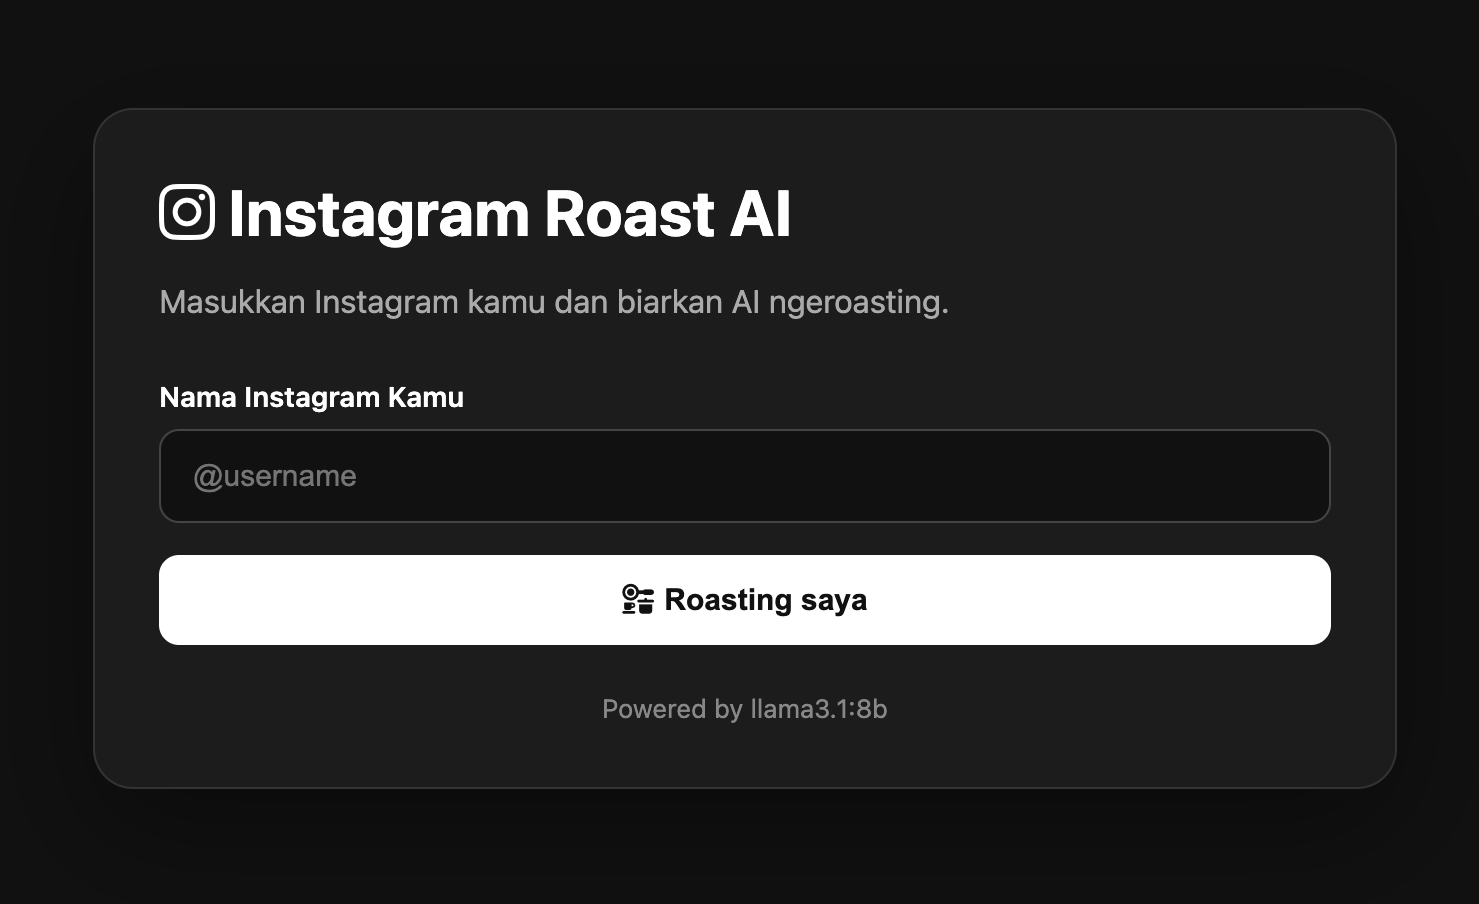
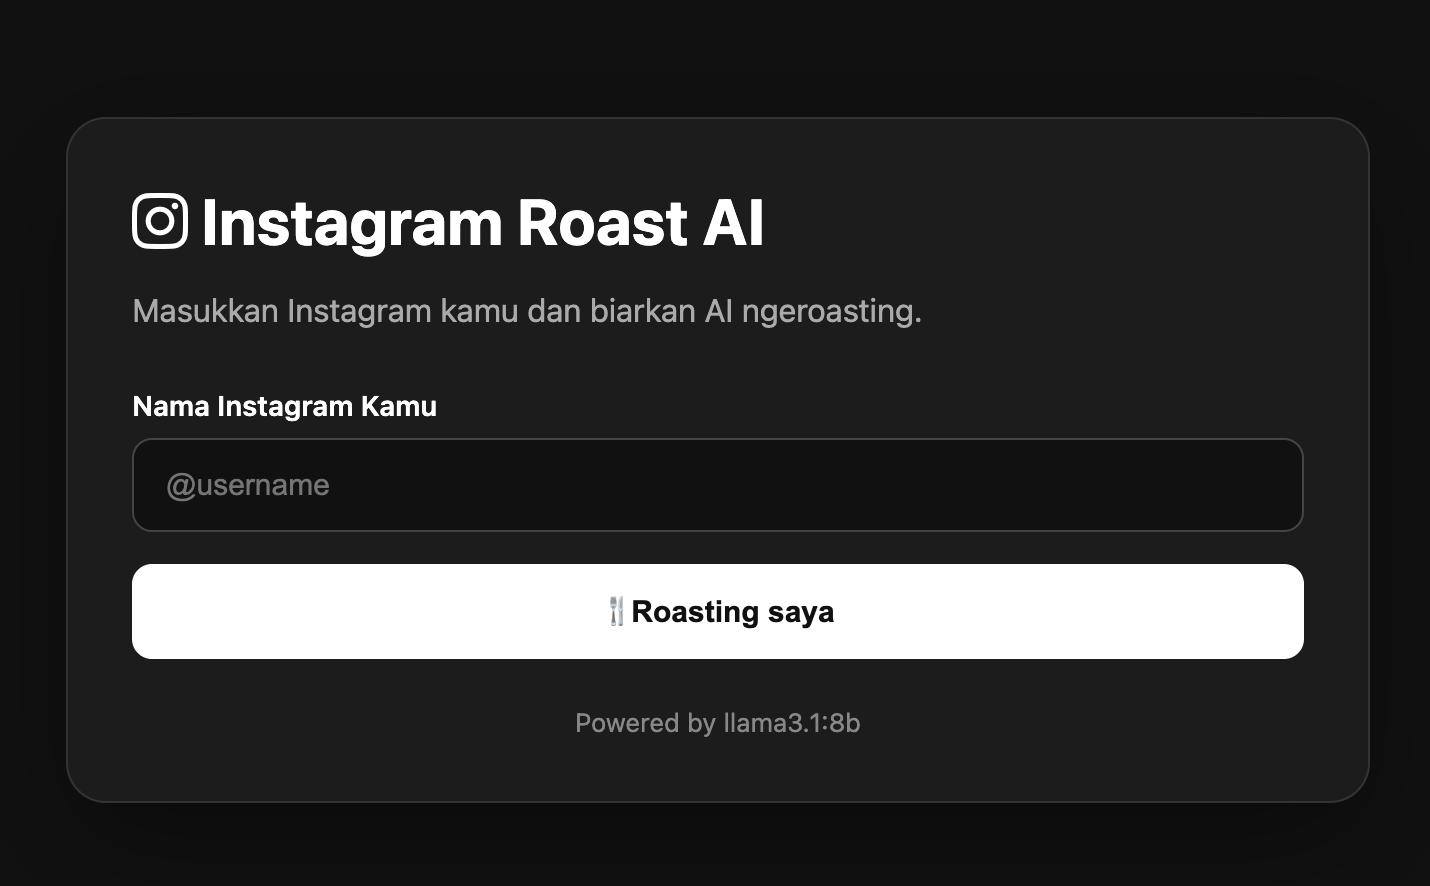
change assets

Changed region(s): [[0.0923, 0.6095, 0.9231, 0.8228], [0.0923, 0.1828, 0.6462, 0.3657], [0.0923, 0.4266, 0.3077, 0.579]]

diff --git a/frontend/app.js b/frontend/app.js
@@ -38,7 +38,7 @@ form.addEventListener("submit", async (event) => {
     loading.classList.remove("hidden");
 
     button.disabled = true;
-    button.textContent = "🔥 Roasting...";
+    button.textContent = "🍴Sedang roasting...";
 
     try {
 
@@ -80,6 +80,6 @@ form.addEventListener("submit", async (event) => {
 
         button.disabled = false;
 
-        button.textContent = "🔥 Roast Me";
+        button.textContent = "🍴 Roasting kembali";
     }
 });

diff --git a/frontend/index.html b/frontend/index.html
@@ -26,8 +26,7 @@
                             required>
 
                     <button id="roastButton" type="submit">
-                        <i class="fa-solid fa-kitchen-set"></i>
-                        Roasting saya
+                        🍴Roasting saya
                     </button>
                 </form>
 

diff --git a/readme.md b/readme.md
@@ -1,6 +1,6 @@
-# Build Local Instagram Profile Roasting Using Llama 3.1 (8b) (Ollama)
+# Build Local-Language Instagram Profile Roasting Using Llama 3.1 (8b) (Ollama)
 
-This tutorial guides you through setting up and running a local Instagram Profile Roasting web application powered by **FastAPI** on the backend, **Ollama** running **Llama 3.1:8b** as the LLM engine, and a standard HTML/CSS/JS frontend.
+This tutorial guides you through setting up and running a local-language (Bahasa Indonesia) Instagram Profile Roasting web application powered by **FastAPI** on the backend, **Ollama** running **Llama 3.1:8b** as the LLM engine, and a standard HTML/CSS/JS frontend.
 
 ---
 
